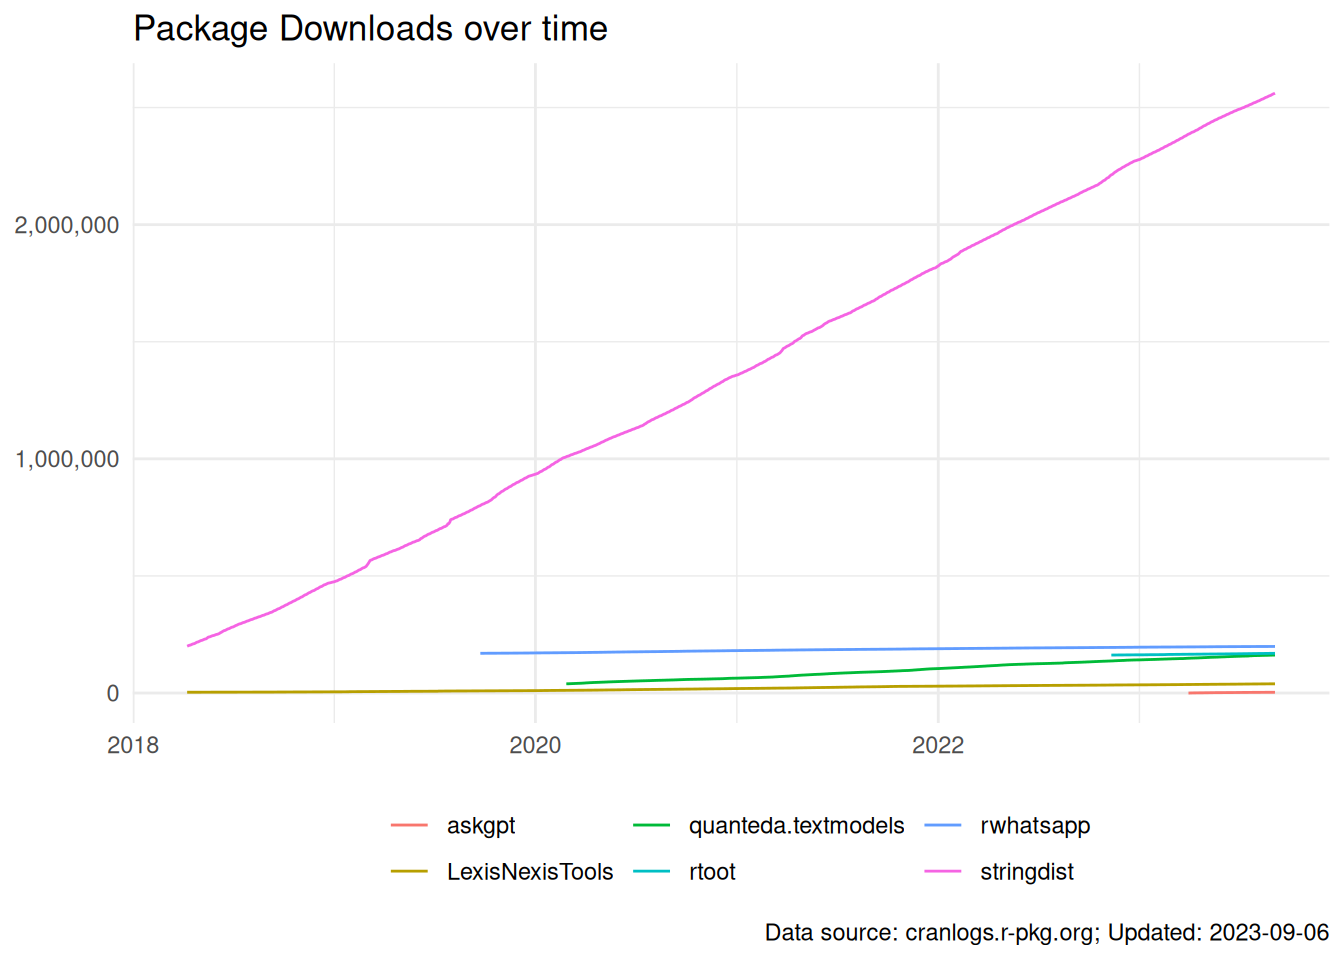
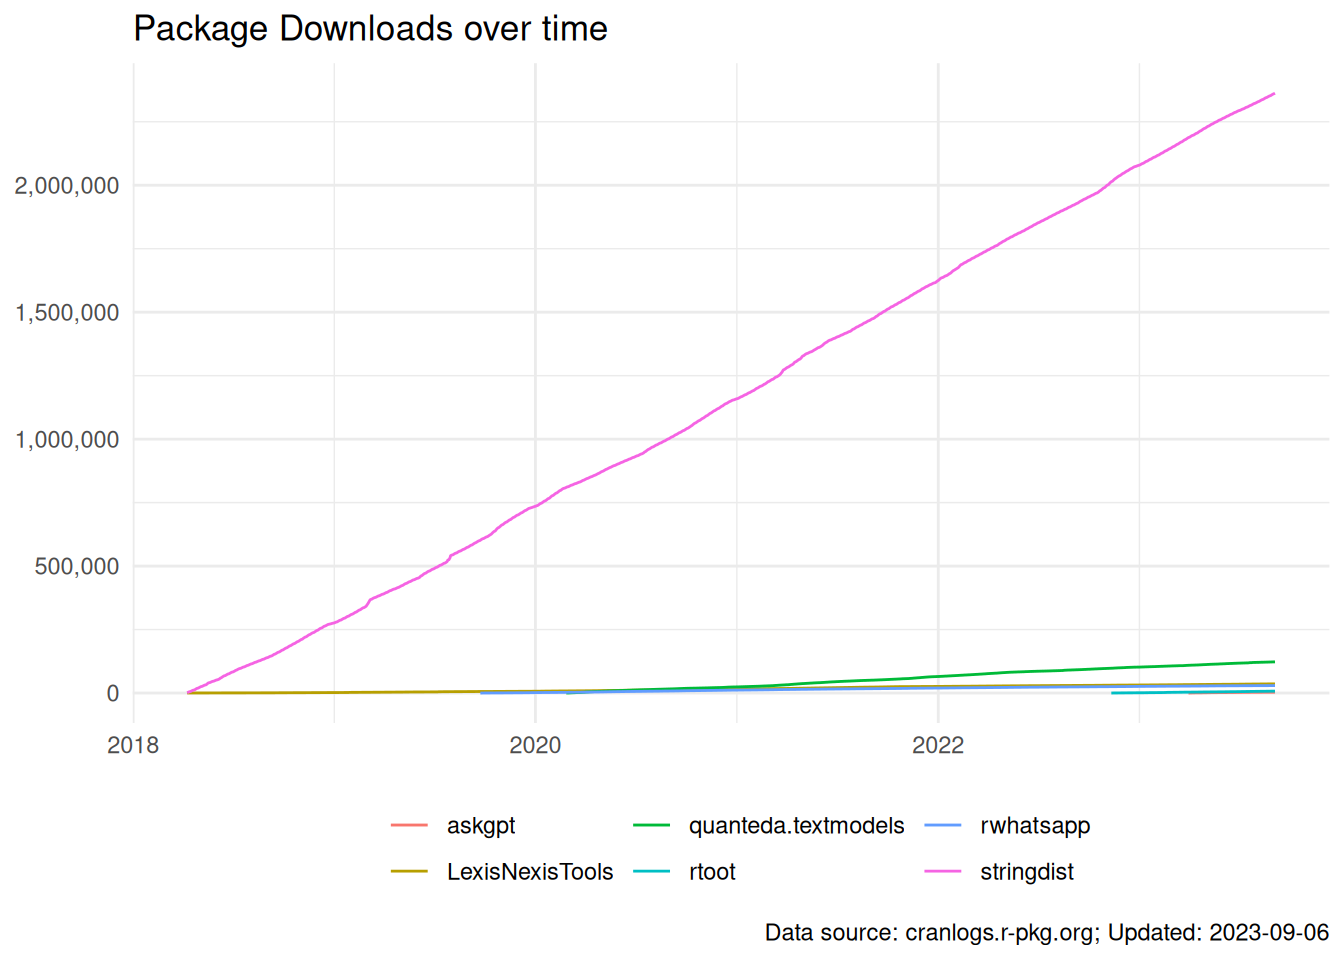
ups, wrong version

diff --git a/content/post/2023-09-06-cran-download-counts/index.en.html b/content/post/2023-09-06-cran-download-counts/index.en.html
@@ -49,6 +49,7 @@ But just for the future and in case I forget something, I solve the issue with <
   pull(Package) |&gt; 
   cran_downloads(from = &quot;2018-04-09&quot;, to = Sys.Date()) |&gt; 
   filter(count &gt; 0) |&gt; 
+  group_by(package) |&gt; 
   mutate(count_total = cumsum(count))</code></pre>
 <p>Using <code>cran_downloads</code> from the package <code>cranlogs</code>, I get the downloads of my packages by day from the time my first package was released.<a href="#fn1" class="footnote-ref" id="fnref1"><sup>1</sup></a></p>
 <p>Now let’s visualise this:</p>
@@ -78,6 +79,7 @@ download_own_data &lt;- my_own_pkgs |&gt;
   pull(Package) |&gt; 
   cran_downloads(from = &quot;2018-04-09&quot;, to = Sys.Date()) |&gt; 
   filter(count &gt; 0) |&gt; 
+  group_by(package) |&gt; 
   mutate(count_total = cumsum(count))
 
 ggplot(download_own_data, aes(x = date, y = count_total, colour = package)) +
@@ -87,6 +89,8 @@ ggplot(download_own_data, aes(x = date, y = count_total, colour = package)) +
   labs(x = NULL, y = NULL, colour = NULL, titletitle = &quot;Package Downloads over time&quot;,
        caption = paste0(&quot;Data source: cranlogs.r-pkg.org; Updated: &quot;, Sys.Date()))</code></pre>
 <p><img src="{{< blogdown/postref >}}index.en_files/figure-html/unnamed-chunk-5-1.png" width="672" /></p>
+<p>And that’s it.
+Just replace my name with yours if you want to use the code above.</p>
 <div class="footnotes footnotes-end-of-document">
 <hr />
 <ol>
